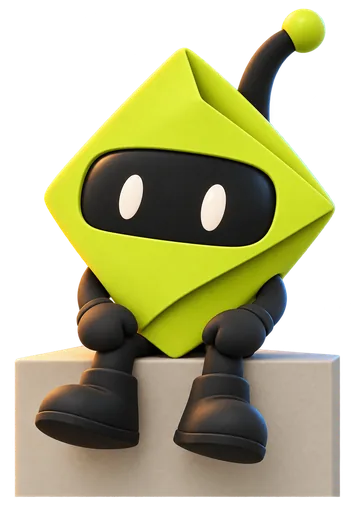
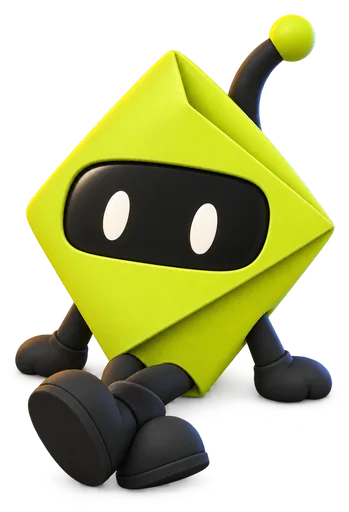
Warm empty-state scenes: Mobi on the ledger and with the unplugged cable, feathered into Night; Mobi cut-outs on Daylight
Re-rendered mobi-rest without the box and generated the two empty-state vignettes (Codex image
generation on the owner's ChatGPT plan). convert_art.py bakes an elliptical feather into the
empty-* scenes so they melt into the ground with no runtime mask. Goldens regenerated and viewed.

diff --git a/flutter_app/lib/core/widgets/state_view.dart b/flutter_app/lib/core/widgets/state_view.dart
@@ -42,11 +42,16 @@ class StateView extends StatelessWidget {
   /// [MobiPose.idle] (the default) lets the kind choose the art.
   final MobiPose pose;
 
-  Widget _art(double size) {
+  Widget _art(BuildContext context, double size) {
     if (pose != MobiPose.idle) return Mobi(pose: pose, size: size, motion: MobiMotion.settle);
+    // The lamp-lit desk scenes melt into the Night ground; on Daylight paper they would read as
+    // a dark blot, so Daylight uses Mobi's cut-out poses instead.
+    final night = context.mmColors.isNight;
     return switch (kind) {
-      StateViewKind.empty => _Vignette(art: MmArt.emptyAllClear, height: size * 1.3),
-      StateViewKind.offline => _Vignette(art: MmArt.emptyOffline, height: size * 1.3),
+      StateViewKind.empty when night => _Vignette(art: MmArt.emptyAllClear, height: size * 1.3),
+      StateViewKind.offline when night => _Vignette(art: MmArt.emptyOffline, height: size * 1.3),
+      StateViewKind.empty => Mobi(pose: MobiPose.read, size: size, motion: MobiMotion.settle),
+      StateViewKind.offline => Mobi(pose: MobiPose.rest, size: size, motion: MobiMotion.settle),
       StateViewKind.error => Mobi(pose: MobiPose.think, size: size, motion: MobiMotion.settle),
     };
   }
@@ -100,7 +105,7 @@ class StateView extends StatelessWidget {
                         ],
                       ),
                     ),
-                    _art(artSize),
+                    _art(context, artSize),
                   ],
                 ),
               ),

diff --git a/flutter_app/tool/convert_art.py b/flutter_app/tool/convert_art.py
@@ -54,6 +54,26 @@ def prepare(path: Path, box, trim: bool) -> Image.Image:
         left, top = (im.width - side) // 2, (im.height - side) // 2
         im = im.crop((left, top, left + side, top + side))
     im.thumbnail(box, Image.LANCZOS)
+    if path.stem.startswith("empty-"):
+        im = feather(im)
+    return im
+
+
+def feather(im: Image.Image) -> Image.Image:
+    """Fades a scene's edges to transparent in an ellipse, so a vignette melts into the ground
+    instead of sitting on it as a rectangle (baked here: no runtime mask)."""
+    im = im.convert("RGBA")
+    w, h = im.size
+    cx, cy = w / 2, h * 0.48
+    alpha = Image.new("L", (w, h))
+    px = alpha.load()
+    for y in range(h):
+        for x in range(w):
+            d = ((x - cx) / (w * 0.5)) ** 2 + ((y - cy) / (h * 0.52)) ** 2
+            v = 1.0 if d <= 0.42 else max(0.0, 1.0 - (d - 0.42) / 0.5)
+            px[x, y] = int(255 * v * v * (3 - 2 * v))
+    im.putalpha(Image.composite(im.getchannel("A"), Image.new("L", (w, h)), alpha).point(lambda a: a))
+    im.putalpha(Image.eval(alpha, lambda a: a))
     return im
 
 
